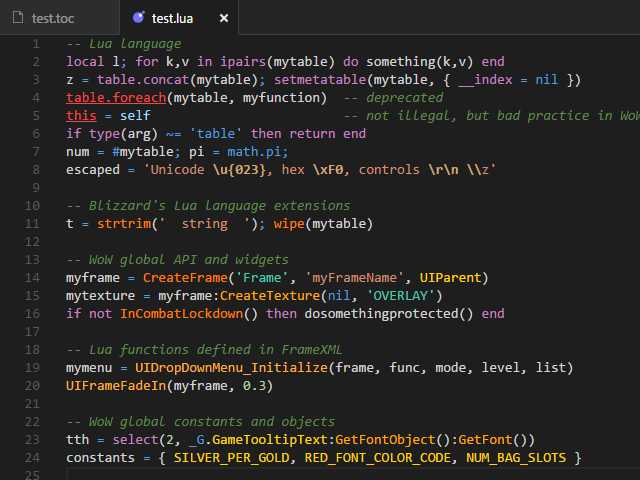
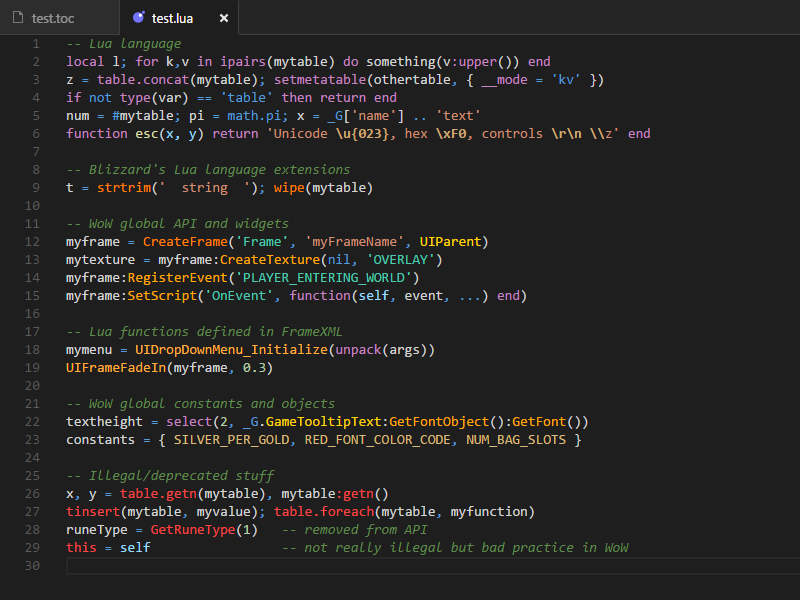
Release 1.0.8

Changed region(s): [[0.0, 0.0, 1.0, 1.0], [0.3438, 0.0312, 0.375, 0.0625]]

diff --git a/README.md b/README.md
@@ -7,7 +7,6 @@ This World of Warcraft addon developer toolset for VS Code includes an improved 
 
 
 ## Features
-
 * Improved Lua grammar
 * Blizzard's Lua language extensions, API and libraries
 * `.toc` file colorization
@@ -18,11 +17,11 @@ This World of Warcraft addon developer toolset for VS Code includes an improved 
 
 #### Lua language
 wow-bundle improves VS Code's built-in Lua language grammar. Worth noticing are:
-* **OO-style strings and tables** support, ie. both `table.concat(mytable)` and `mytable:concat()` are supported
-* **Complete metamethods** support: `__index`, `__add` & al.
-* **Quoted string constants** support: `'string'`, `'table'` & al.
-* Better **character escapes** inside strings: Unicode entities, decimal and hexadecimal value and control chars
-* **Deprecated features** like `foreach`/`foreachi` warning
+* **OO-style strings and tables calls** support, ie. both `table.concat(mytable)` and `mytable:concat()` are supported
+* **Full metamethods** support: `__index`, `__add` & al.
+* **Quoted string constants** support: `'string'`, `'table'` & al. as returned by the `type()` function
+* Better **character escapes** inside strings: Unicode entities, decimal and hexadecimal values and control chars
+* **Deprecated features** like `foreach`/`foreachi` and `getn`/`setn` warning
 
 #### World of Warcraft API
 wow-bundle's Lua grammar also tags a bunch of WoW-related stuff with these comprehensive scopes:
@@ -32,17 +31,15 @@ wow-bundle's Lua grammar also tags a bunch of WoW-related stuff with these compr
 	* **support.function.wow.api.nocombat.lua** - API functions that can't be called while in combat
 	* **support.function.wow.api.protected.lua** - API functions that can be called only from secure code
 * **support.function.wow.library.lua** - Library functions written in Lua (mostly used by UI code)
-* **support.class.wow.global.lua** - Global objects like `UIParent`, `GameFontNormal` and such
+* **support.variable.wow.lua** - Global objects like `UIParent`, `GameFontNormal` and such
+* **support.variable.wow.value.lua** - Global variables like `HIGHLIGHT_FONT_COLOR_CODE`, `UIDROPDOWNMENU_INIT_MENU` and such
 * **support.class.wow.method.lua** - Widgets methods like `:AddLine()`, `:SetTexture()` and such
-* **support.constant.wow.global.lua** - Global constants like `HIGHLIGHT_FONT_COLOR_CODE`, `UIDROPDOWNMENU_INIT_MENU` and such
-* **support.constant.wow.quoted** - String constants (quoted), with 3 sub-scopes:
-	* **support.constant.wow.quoted.function-parameter.lua** - Common function parameters like `'CheckButton'`, `'BOTTOMLEFT'`, `'OVERLAY'`, `'player'` and such
-	* **support.constant.wow.quoted.script-handler.lua** - Widgets event handlers like `'OnEnter'`, `'OnShow'` and such
-	* **support.constant.wow.quoted.event-name.lua** - Game events like `'PLAYER_ENTERING_WORLD'`, `'VARIABLES_LOADED'` and such
+* **support.constant.wow.string-parameter.lua** - Common function parameters like `'CheckButton'`, `'BOTTOMLEFT'`, `'OVERLAY'`, `'player'` and such
+* **support.constant.wow.script-handler.lua** - Widgets event handlers like `'OnEnter'`, `'OnShow'` and such
+* **support.constant.wow.event-name.lua** - Game events like `'PLAYER_ENTERING_WORLD'`, `'VARIABLES_LOADED'` and such
 * **support.XXX.wow.removed.lua** - Removed and/or deprecated stuff in the API, were **XXX** can be one of **function**, **class**, **variable** or **constant**
 
 These scopes make it easy to colorize everyting WoW-related. See **Colorization** below for details.
-
 
 ![lua](images/lua.png)
 
@@ -57,12 +54,17 @@ Also included is a simple grammar for `.toc` files with the following scopes:
 
 
 ### Colorization
-Standard VS Code themes should work well with these scopes. However, for further colorization granularity, wow-bundle also includes several specific theme based on VS Code's default themes and called **Dark+ (WoW)**, **Monokai (WoW)** and **Monokai Dimmed (Wow)**. To choose one of these themes, open the Color Theme picker with **File** > **Preferences** > **Color Theme** (or **Code** > **Preferences** > **Color Theme** on Mac).
+All VS Code themes should word fine with these scopes as long as they follow [the standard scope naming convention](https://manual.macromates.com/en/language_grammars).
+
+However, for further colorization granularity, wow-bundle also includes several specific theme based on VS Code's default themes and called **Dark+ (WoW)**, **Monokai (WoW)** and **Monokai Dimmed (Wow)**. To choose one of these themes, open the Color Theme picker with **File** > **Preferences** > **Color Theme** (or **Code** > **Preferences** > **Color Theme** on Mac).
 
 ![themes](images/themes.gif)
 
 wow-bundle's themes only colorizes the scopes described above and does not interfere with VS Code default colors for Lua or any other language you may use.
->New since 1.0.1: I do however add italics to comments and underline to invalid/deprecated keywords. I just like it this way. :)
+
+>New since 1.0.1: I do however add italics to comments ~~and underline to invalid/deprecated keywords~~. I just like it this way. :)
+
+>News since 1.0.7: No more underline for invalids, not everybody likes it.
 
 
 ## Known Issues
@@ -89,8 +91,10 @@ Found an issue not listed here? Head up to Github and [open an issue](https://gi
 ## Release notes
 
 ### 1.0.7
-* [themes] **string.quoted.types.lua** strings are now the same color as **variable.name**
+* [language.lua] Added `'k'`, `'v'`, `'kv'` and `'vk'` (used by the `__mode` metamethod) as language constants
+* [language.lua] Also added the comma (`,`) and the ellipsis (`...`) as operators
 * [language.lua] Better `meta.function.lua` patterns
+* [themes] Tweaked some colors and styles
 
 ### 1.0.6
 * [themes] Added the **Monokai (WoW)** and **Monokai Dimmed (WoW)** themes
